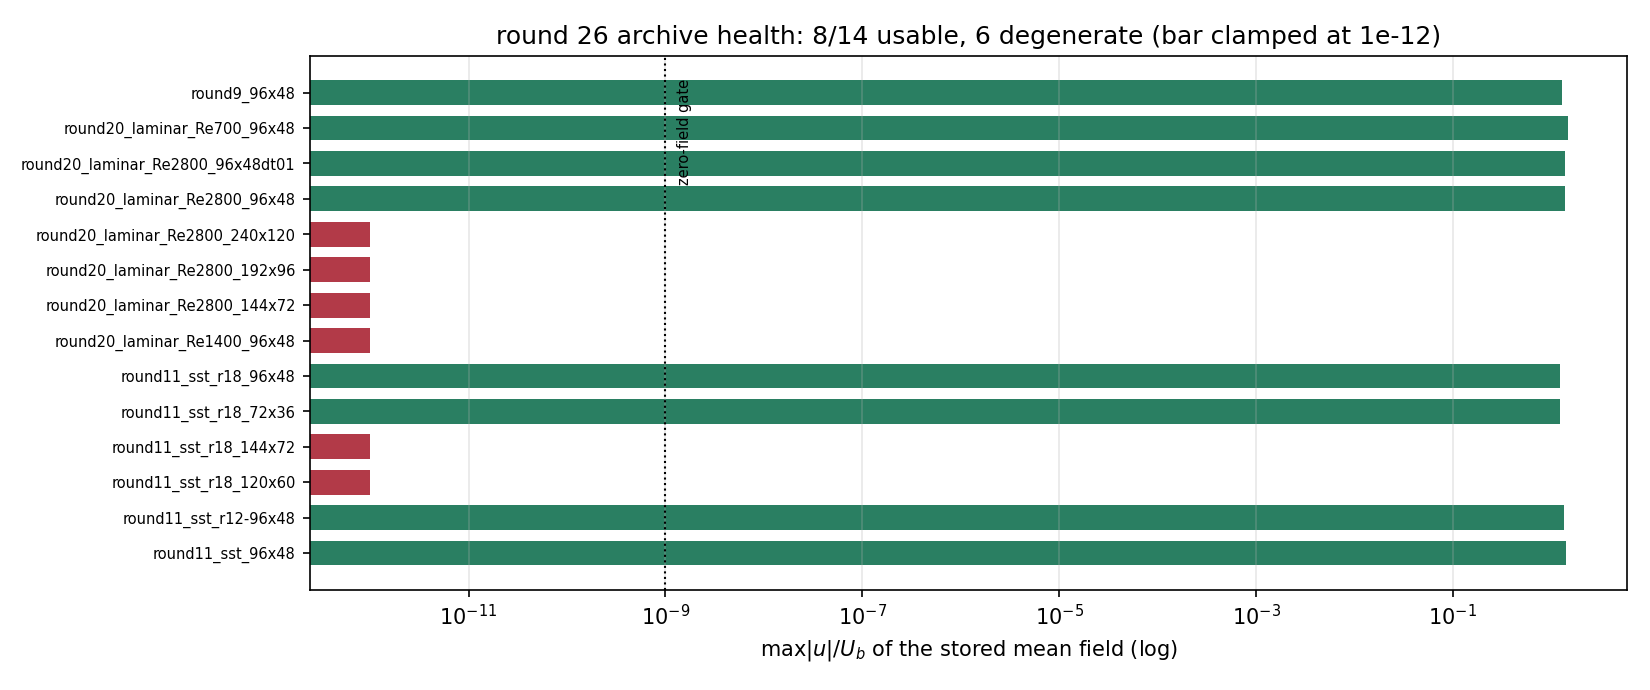
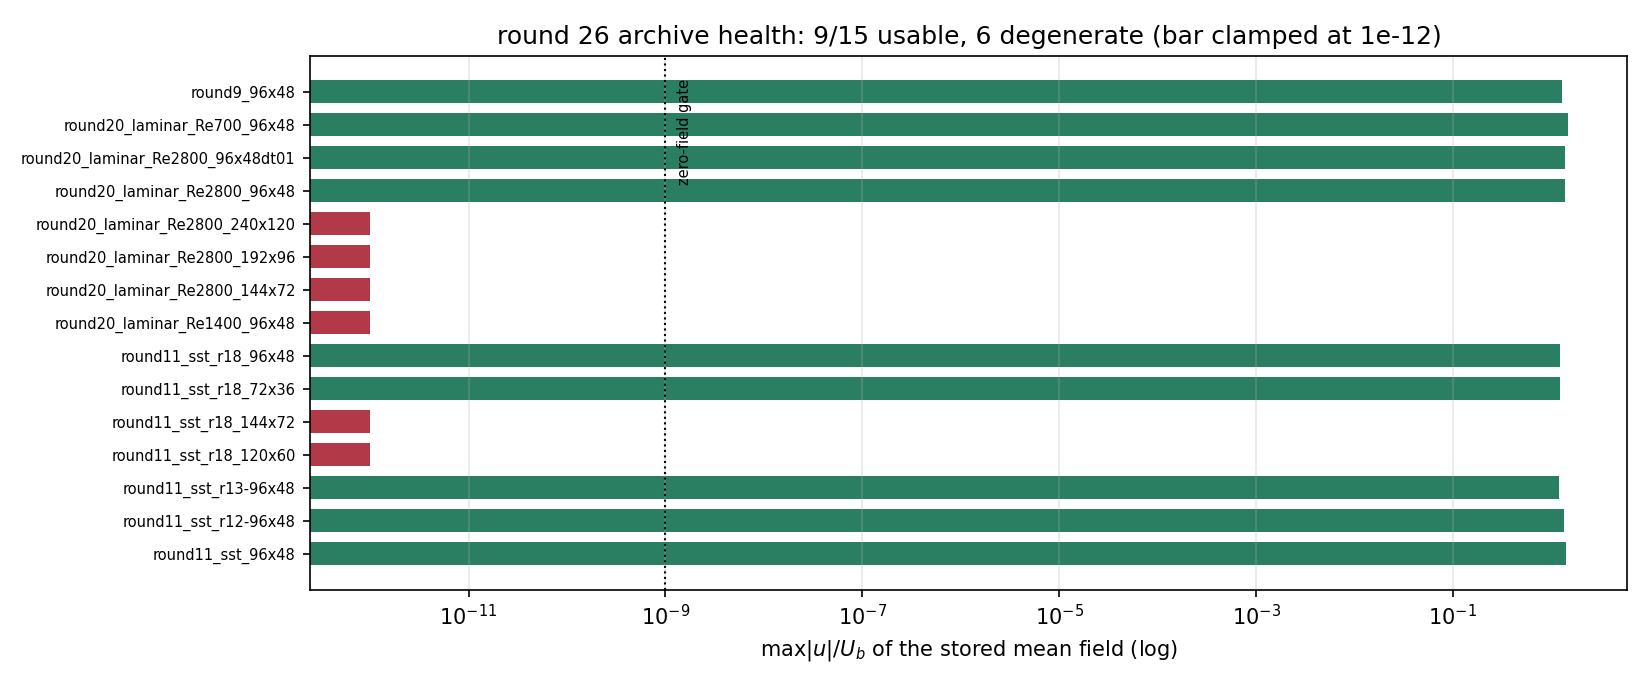
Merge #1109 (m25879) via merge-master

Changed region(s): [[0.0, 0.1217, 0.9582, 0.7913], [0.3091, 0.0304, 0.8655, 0.0609], [0.0927, 0.7913, 0.1855, 0.8217]]

diff --git a/scripts/post_round26_report.py b/scripts/post_round26_report.py
@@ -2,6 +2,7 @@
 """Post the round-26 verification report to the platform (figures inlined)."""
 import base64
 import json
+from pathlib import Path
 import os
 import urllib.request
 
@@ -143,7 +144,7 @@ payload = {
                 "（带宽 129.6%，判 definition_sensitive，抬离带剪切仅峰值 2.15%）；SST/SA 为单单元 object_supported；"
                 "无任何口径 <10%，锚点保持 honest FAIL。零求解器运行。"),
     "scenario_key": "CASE-FVM-PERIODIC-HILLS",
-    "mission_id": 22685,
+    "mission_id": 25879,
     "tags": ["TensorFVM", "verification", "periodic-hill", "ERCOFTAC-UFR-3-30",
              "reattachment", "artifact-integrity", "definition-sensitivity"],
     "markdown": markdown,

diff --git a/tests/test_periodic_hill_archive_audit.py b/tests/test_periodic_hill_archive_audit.py
@@ -294,9 +294,9 @@ def test_stored_archive_has_the_two_ladders_unanswered():
     """Pins the round-26 finding: both grid ladders are rung-starved."""
     payload = json.loads(
         (CASE_DIR / "round26_archive_audit.json").read_text())
-    assert payload["n_artefacts"] == 14
+    assert payload["n_artefacts"] == 15
     assert payload["n_degenerate"] == 6
-    assert payload["n_usable"] == 8
+    assert payload["n_usable"] == 9
     for name in ("sst_r18", "laminar_re2800"):
         assert payload["ladders"][name]["verdict"] == "insufficient_rungs"
     degenerate = {d["stem"] for d in payload["degenerate"]}

diff --git a/docs/case-periodic-hills/ROUND26.md b/docs/case-periodic-hills/ROUND26.md
@@ -17,7 +17,7 @@ round 23/25 留下两条明写的欠账，本单都指向它们：
 
 本单先把「这些归档到底是不是数据」查清楚，再回答口径问题。之所以要先查归档：
 仓里 `docs/case-periodic-hills/*.npz` 是全仓共用的证据面，但**从来没有任何门检查过
-文件里有没有场**。实测：14 个归档里 **6 个是全零 dump**
+文件里有没有场**。实测：15 个归档里 **6 个是全零 dump**
 （速度、时均速度、壁剪三者全零）。而认证的零点算子在零剪切剖面上返回
 `status = "no_recirculation"`、`x_r/H = nan` —— 与「流动完全附着」**无法区分**。
 一条把 `nan` 读成「无再循环」的阶梯规则，会把一次根本没跑出场的算例记成一次*测量*。
@@ -50,7 +50,7 @@ round 23/25 留下两条明写的欠账，本单都指向它们：
 
 ## ③ 计算结果（程序注入）
 
-### 归档完整性（`8/14` 可用）
+### 归档完整性（`9/15` 可用）
 
 | artefact | 状态 |
 |---|---|
@@ -70,6 +70,7 @@ round 23/25 留下两条明写的欠账，本单都指向它们：
 |---|---|---|---|---|---|---|---|---|---|
 | `round11_sst_96x48` | 96 | usable | 1 | 2.046 | 2.046 | 2.046 | 0.0 % | definition_insensitive | object_supported |
 | `round11_sst_r12-96x48` | 96 | usable | 1 | 3.144 | 3.144 | 3.144 | 0.0 % | definition_insensitive | object_supported |
+| `round11_sst_r13-96x48` | 96 | usable | 1 | 3.767 | 3.767 | 3.767 | 0.0 % | definition_insensitive | object_supported |
 | `round11_sst_r18_120x60` | 120 | **zero_field** | – | – | – | – | – | – |
 | `round11_sst_r18_144x72` | 144 | **zero_field** | – | – | – | – | – | – |
 | `round11_sst_r18_72x36` | 72 | usable | 1 | 7.600 | 7.600 | 7.591 | 0.2 % | definition_insensitive | object_supported |
